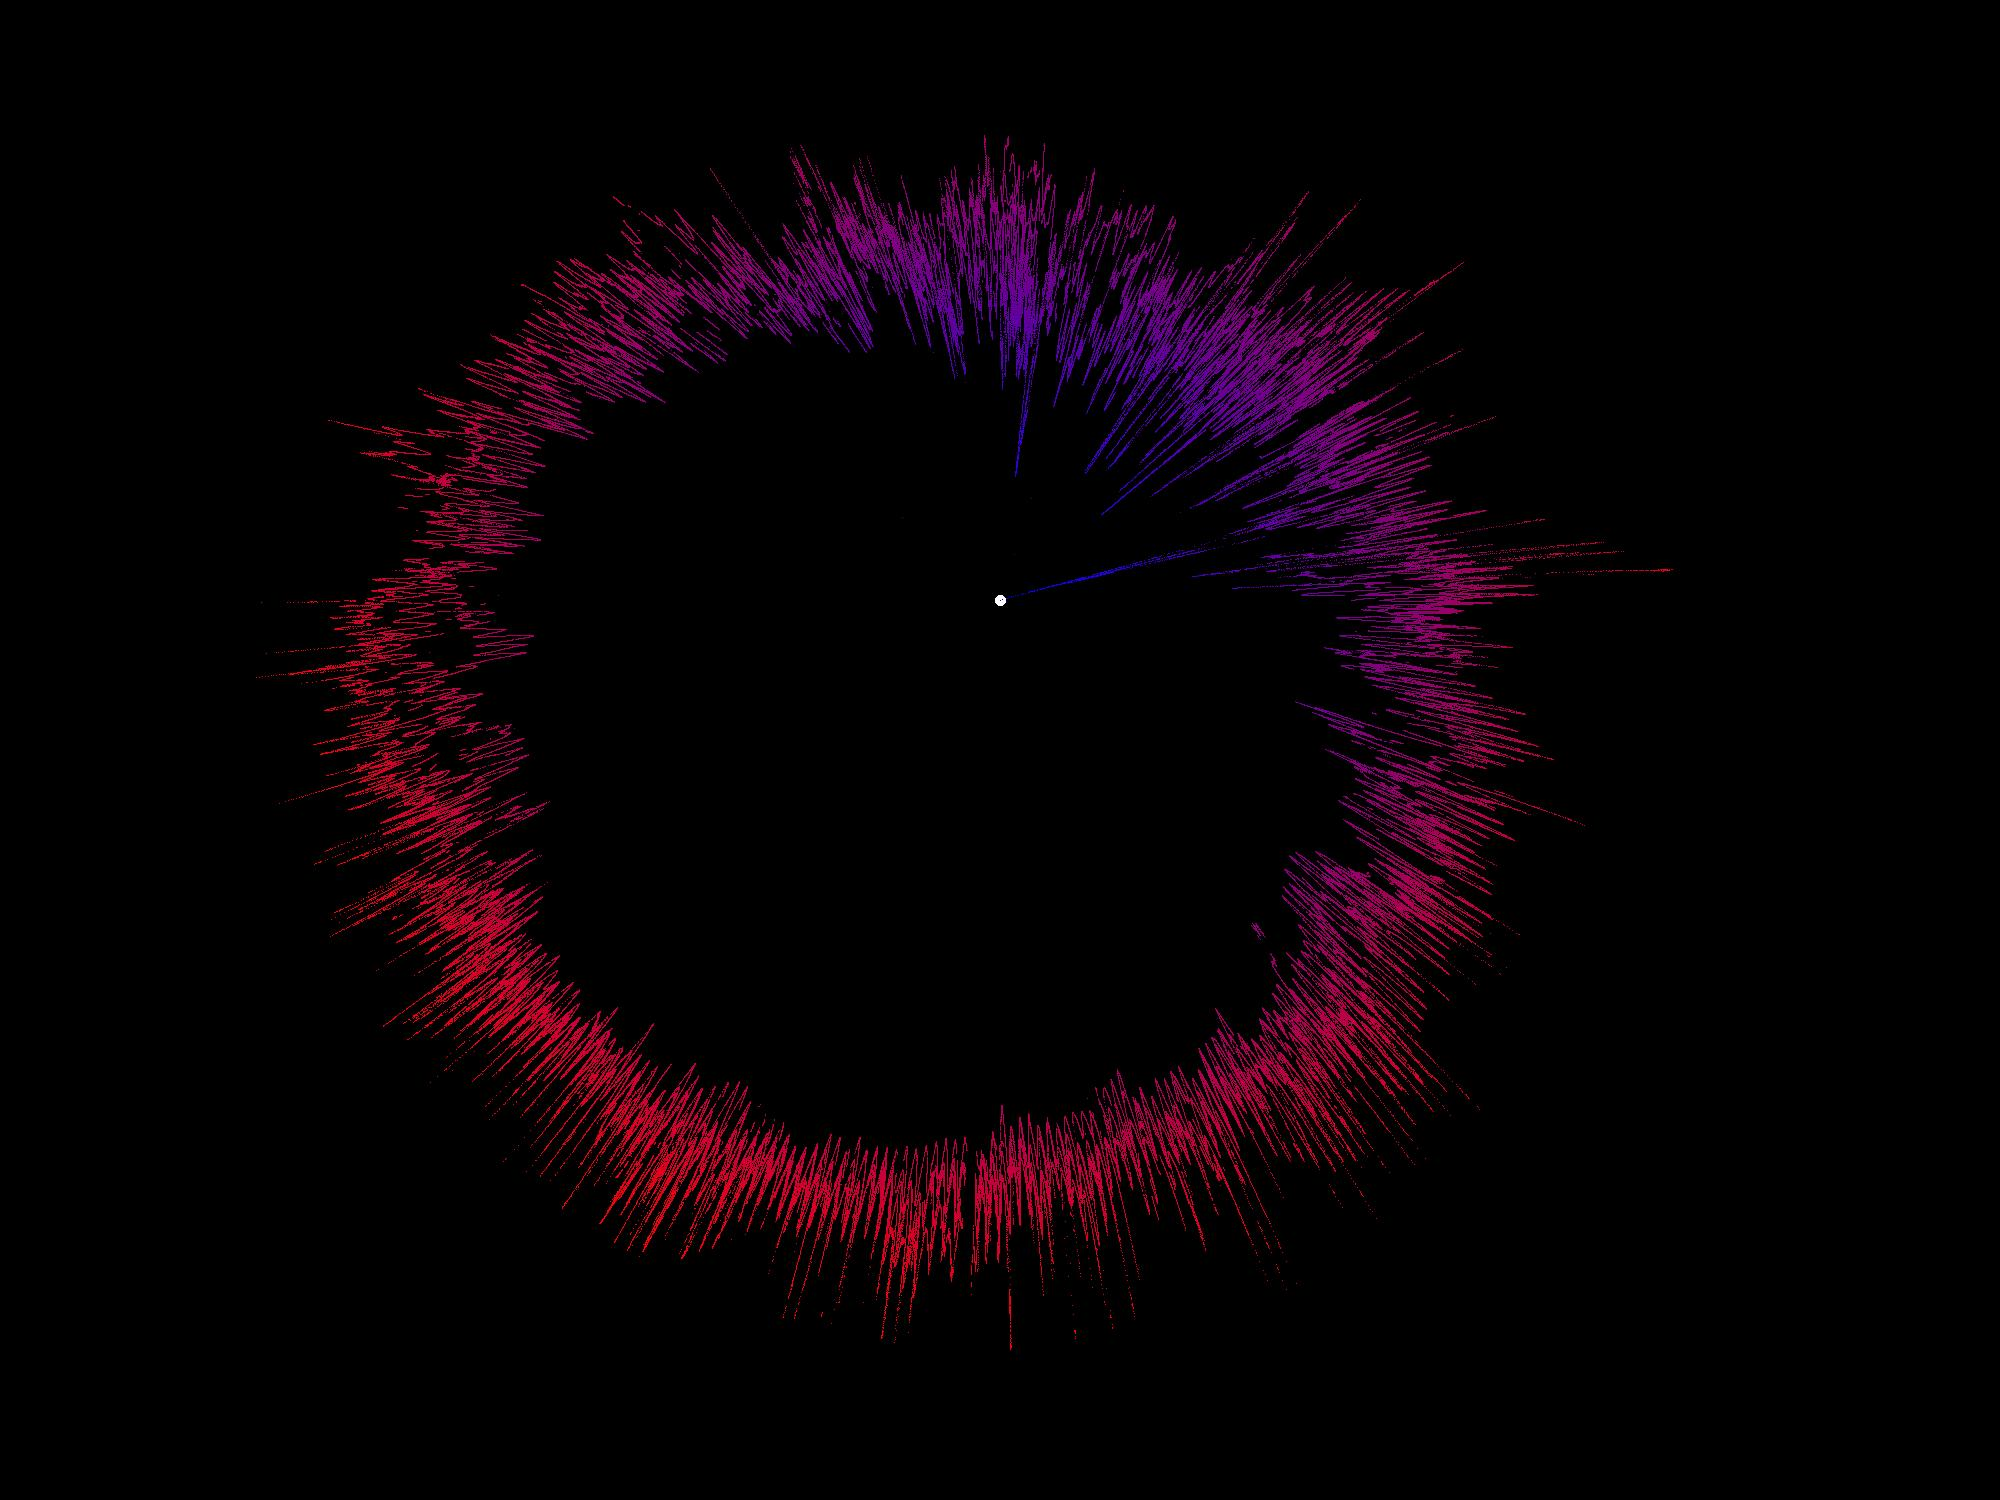
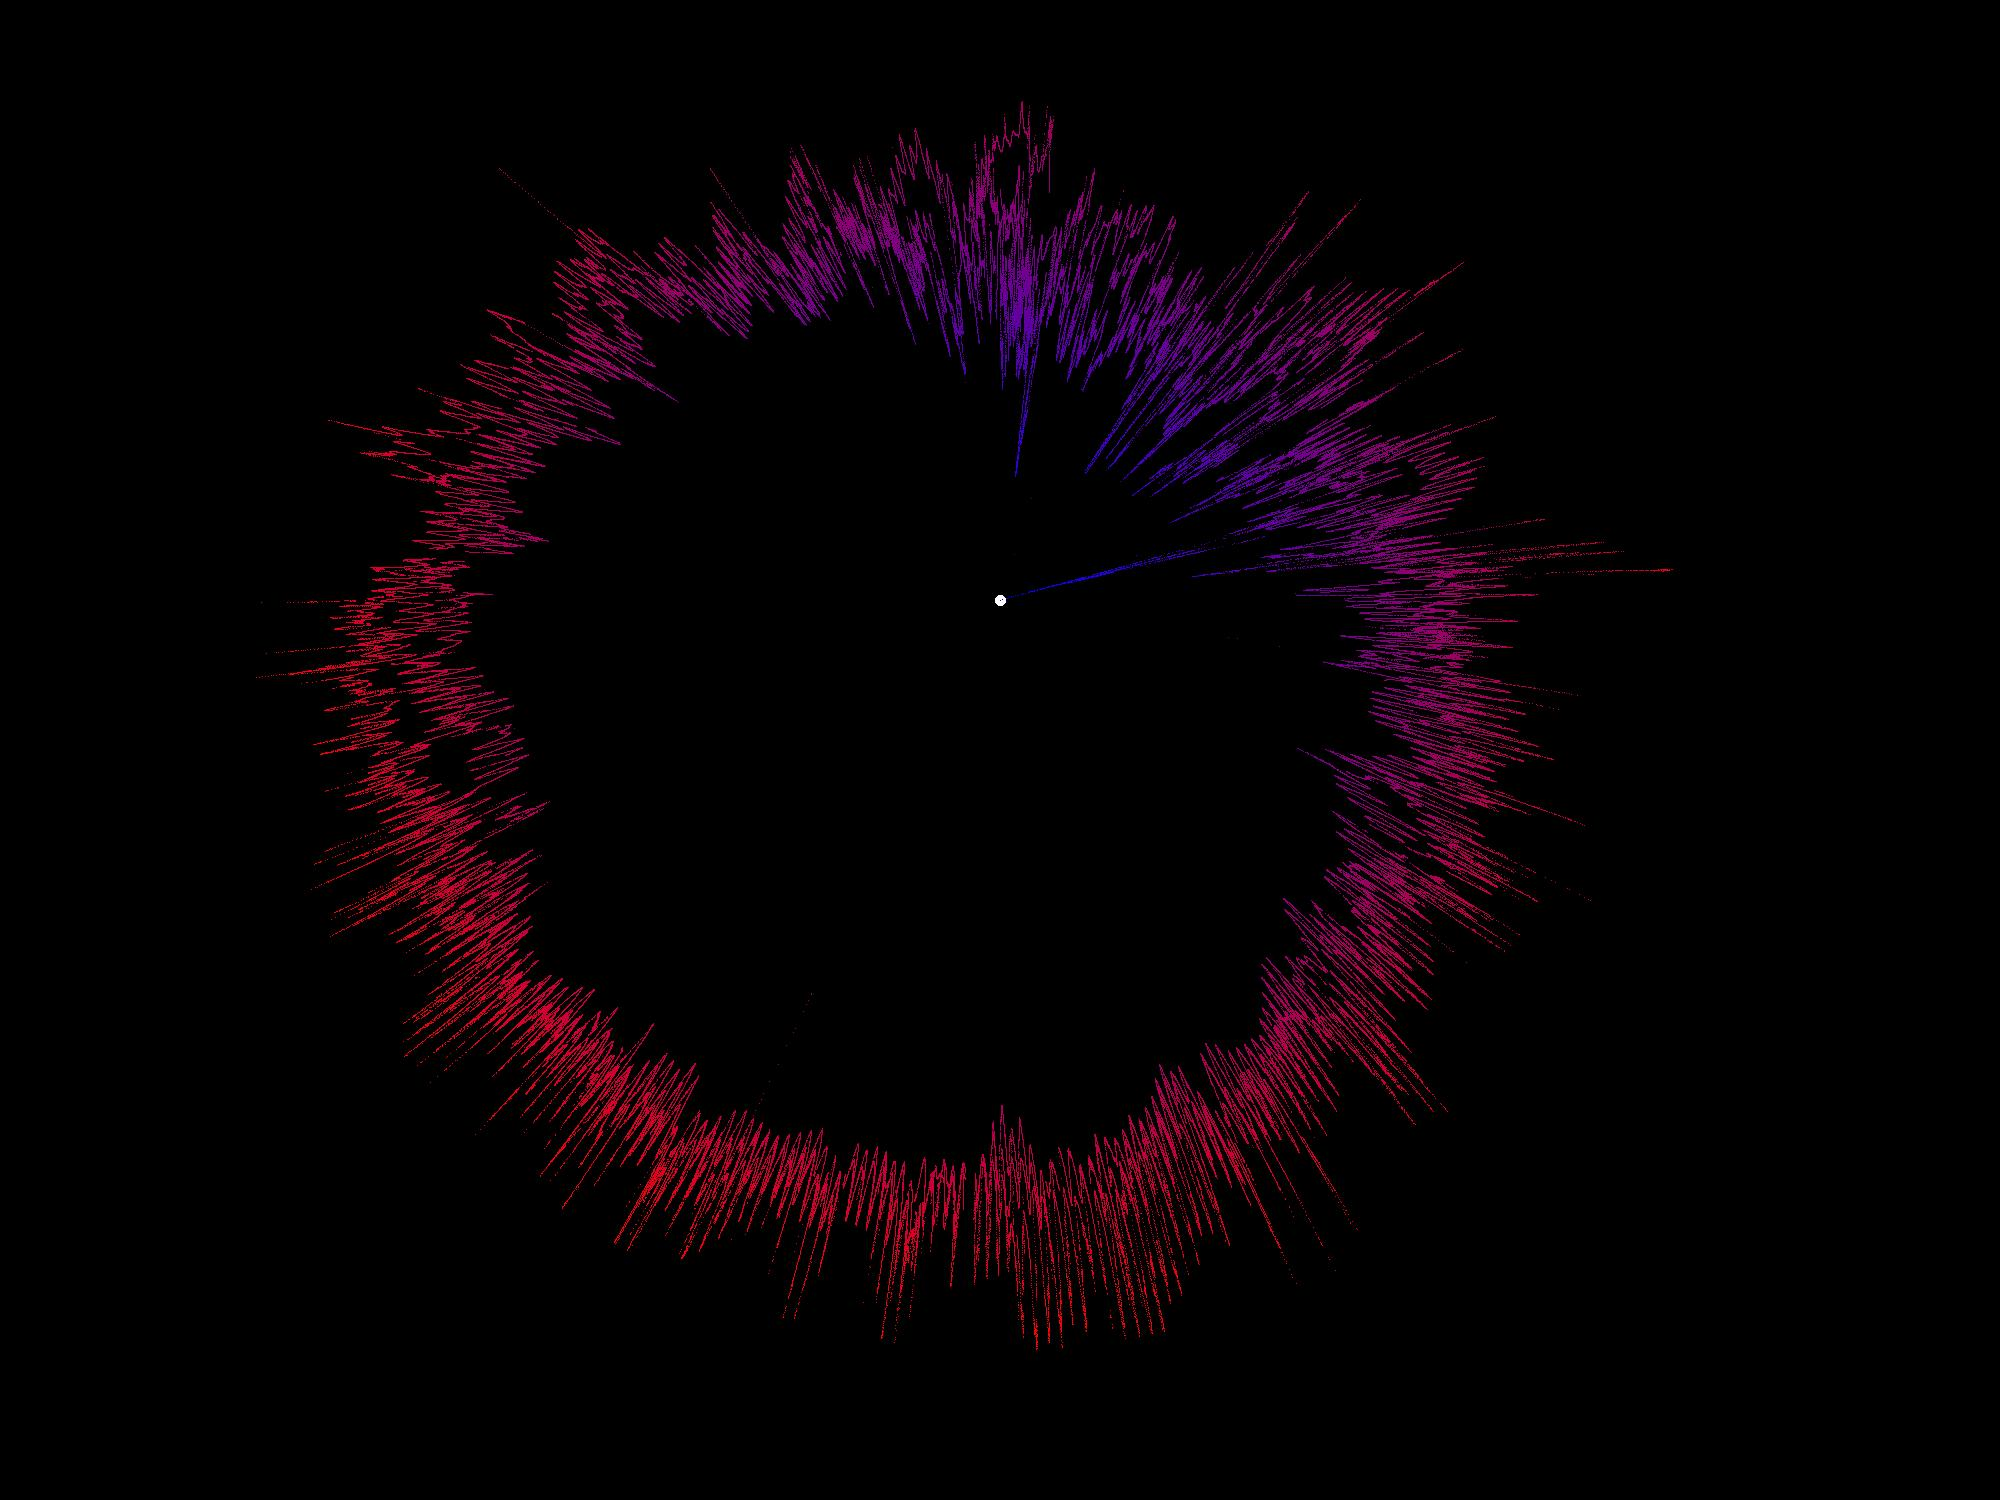
Finalized csv_cleaner

Changed region(s): [[0.155, 0.0613, 0.775, 0.8893]]

diff --git a/temperature_circle.py b/temperature_circle.py
@@ -11,8 +11,8 @@ class Temperature_Circle:
     # Negative values -- are they intentional
 
 
-    def __init__(self, data, canvas_width: int, canvas_height: int, cool_color: tuple, warm_color: tuple) -> None:
-        self.data = data[(data.value < 25)] # data cleaning
+    def __init__(self, filepath: str, canvas_width: int, canvas_height: int, cool_color: tuple, warm_color: tuple) -> None:
+        self.filepath = filepath
         self.width = canvas_width
         self.height = canvas_height
         self.cool_color = cool_color
@@ -25,12 +25,20 @@ class Temperature_Circle:
         endplot = time.time()
         print('PLOTPOINT: ', endplot - beginplot)
 
-        # self.img.show()
-        self.img.save("Water_Temp_Art.jpg")
+        self.img.show()
+        # Uncomment to save image
+        # self.img.save("Water_Temp_Art_uncleaned.jpg")
 
 
     def setup(self):
         '''Sets up the image and centerpoint and calculates the min and max value of the data'''
+
+        try:
+            self.data = pd.read_csv(filepath_or_buffer=self.filepath, 
+                               usecols=['value','datetime'])
+        except FileNotFoundError:
+            print("Error: File Not Found!")
+            quit()
         self.img = Image.new(mode='RGB', size=(self.width,self.height), color='black')
         init_radius = 5
         ImageDraw.Draw(self.img).ellipse(xy=(self.width/2-init_radius,
@@ -50,8 +58,13 @@ class Temperature_Circle:
         :param float value: the value of the given datapoint
         '''
         xyrgb_tuple = self.calculate_point_vals(datetime, value)
-        ImageDraw.Draw(self.img).point((xyrgb_tuple[0], xyrgb_tuple[1]), 
+        ImageDraw.Draw(self.img).point((xyrgb_tuple[0], xyrgb_tuple[1]), \
                                         fill=(xyrgb_tuple[2], xyrgb_tuple[3], xyrgb_tuple[4]))
+
+        # For more sparse data, use this to draw small circles instead of pixels
+        # ImageDraw.Draw(self.img).ellipse((xyrgb_tuple[0]-1, xyrgb_tuple[1]-1, \
+        #                                   xyrgb_tuple[0]+1, xyrgb_tuple[1]+1), \
+        #                                  fill=(xyrgb_tuple[2], xyrgb_tuple[3], xyrgb_tuple[4]))
 
 
     def calculate_point_vals(self, row_date: pd.Timestamp, row_val: float) -> tuple:

diff --git a/csv_cleaner.py b/csv_cleaner.py
@@ -1,0 +1,32 @@
+import pandas as pd
+import sys
+
+def write_csv(filein: str, fileout: str):
+    '''This method reads a csv, converts the 'datetime' column to pandas Timestamp,
+    and resamples the data to result in the hourly average. This saves significant
+    processing time when generating (and testing) different art classes.
+    
+    :param str filein : the relative path of the input file to be processed.
+    :param str fileout : the relative path and name of the output file.'''
+    try:
+        df = pd.read_csv(filein,usecols=['id','value','datetime'], index_col=['datetime'])
+    except FileNotFoundError:
+        print("Error: CSV File Not Found")
+        quit()
+    
+    df.index = pd.to_datetime(df.index, utc=True)
+    # Uncomment to resample the values to average each hour
+    df = df.resample('H')[['value']].mean()
+    
+    df.to_csv(fileout)
+
+
+if __name__ == '__main__':
+    if len(sys.argv) != 3:
+        print("Error: Please include an input and output path!")
+    elif not (sys.argv[1].endswith('.csv') and sys.argv[2].endswith('.csv')):
+        print("Error: Argument filenames must both be of file type *.csv")
+    else:
+        filein = sys.argv[1]
+        fileout = sys.argv[2]
+        write_csv(filein, fileout)

diff --git a/main.py b/main.py
@@ -40,26 +40,19 @@ def drawPoints():
 
 if __name__ == "__main__":
     starttime = time.time()
+    
     # error checking
     if len(sys.argv) > 2:
         print("Error: Too Many Arguments")
     elif len(sys.argv) < 2:
-        print("Error: Input File Required")
+        print("Error: Input filepath is required")
     elif not sys.argv[1].endswith('.csv'):
         print("Error: Argument filename must be of file type *.csv")
     else:
         filepath = sys.argv[1]
-        # csv parser
-        csvparse = time.time()
-        try:
-            data = pd.read_csv(filepath_or_buffer=filepath, 
-                               usecols=['id','value','datetime'])
-        except FileNotFoundError:
-            print("Error: File Not Found!")
-        else:
-            print('CSVPARSE: ', time.time() - starttime)
-            # basicArt()
-            # drawPoints()
-            Temperature_Circle(data,canvas_width,canvas_height, (0,0,255), (255,0,0))
-            print("Total Time: ", time.time() - starttime)
+        # basicArt()
+        # drawPoints()
+        Temperature_Circle(filepath,canvas_width,canvas_height, (0,0,255), (255,0,0))
+
+        print("Total Time: ", time.time() - starttime)
 
